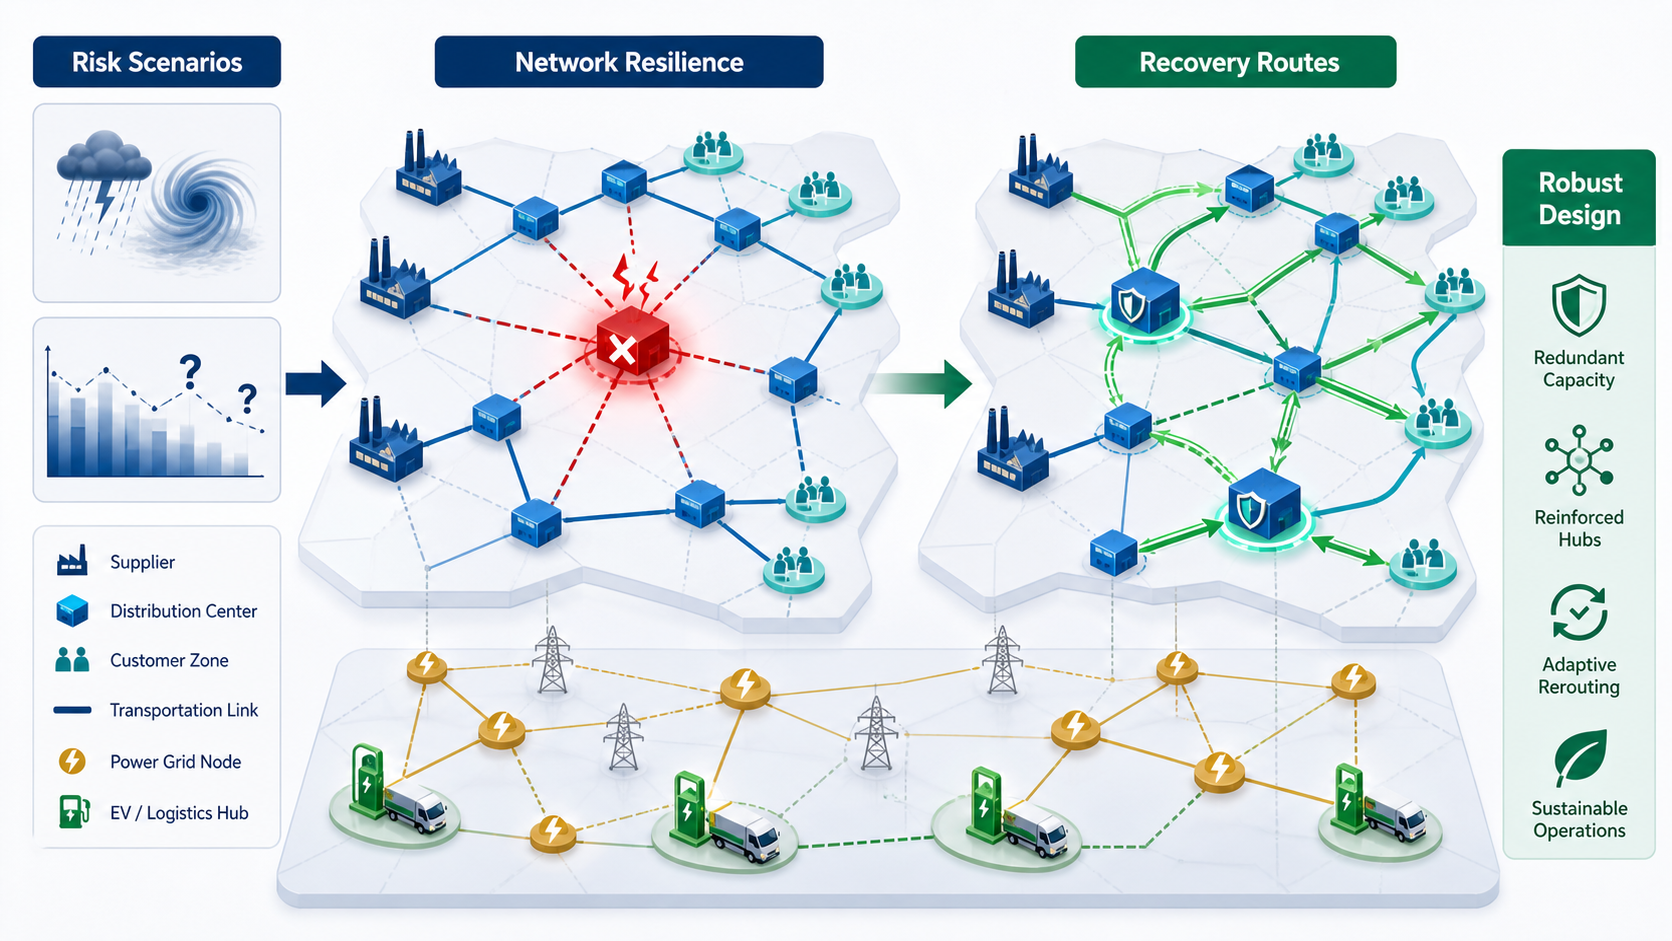
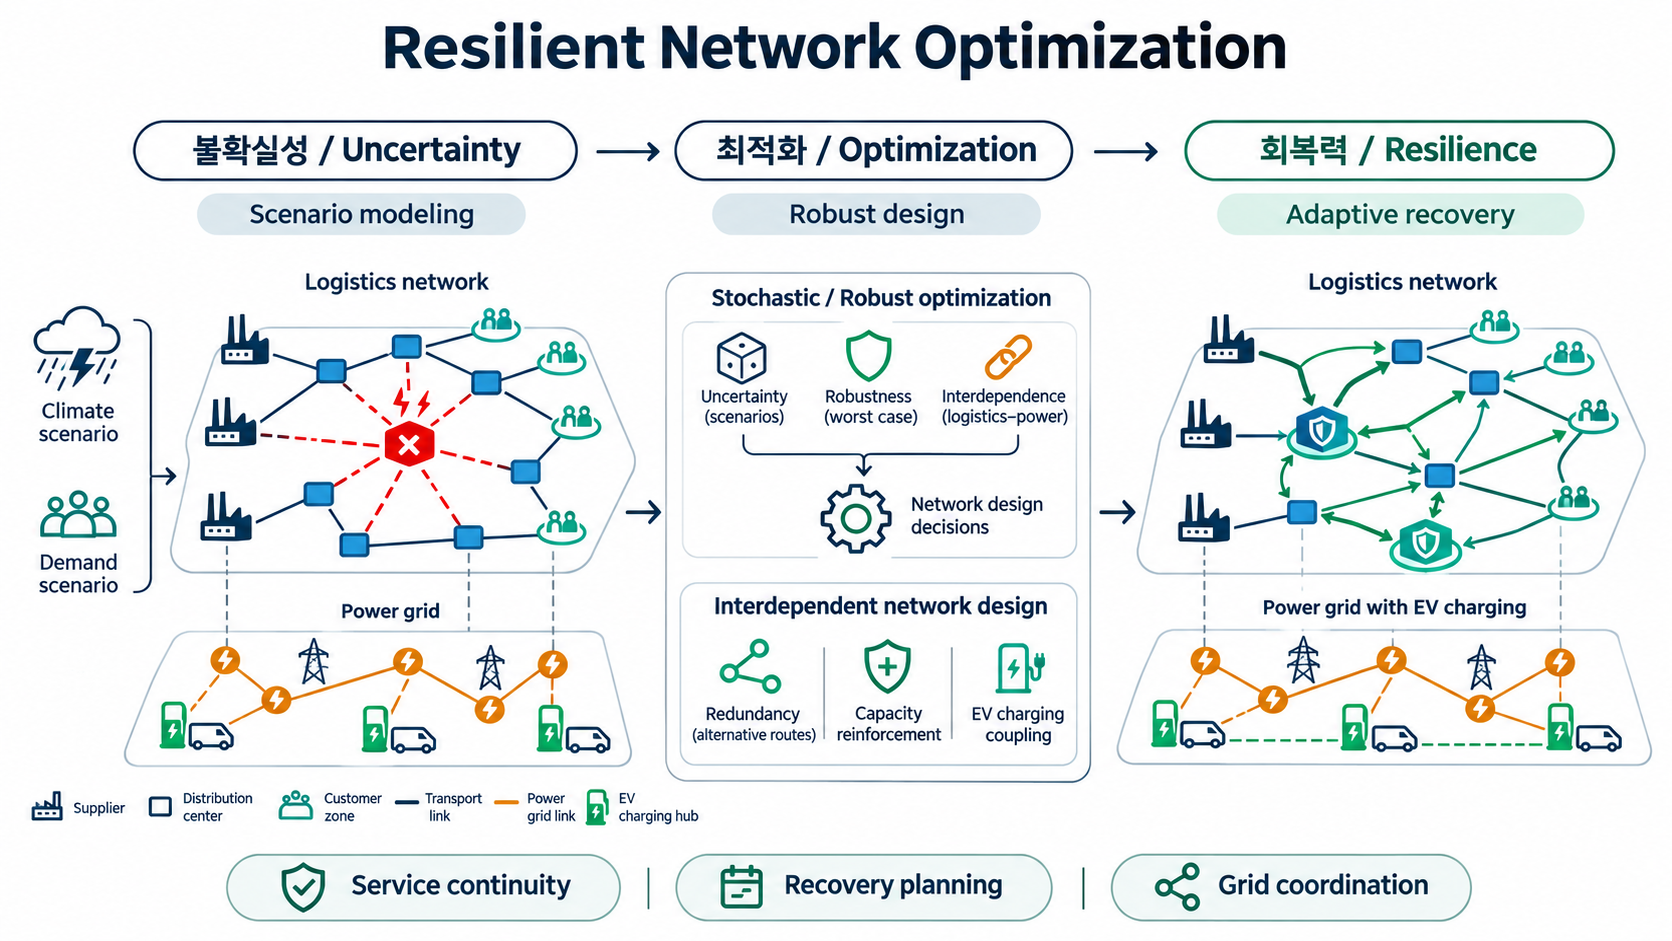
Research: new graphical abstracts for logistics, network and next-gen tabs
- Logistics main: integrated air-ground-underground logistics (bilingual)
- Network main: resilient network optimization (updated image)
- Next-Gen bottom-left: hybrid quantum-classical optimization (bilingual)

diff --git a/research.html b/research.html
@@ -190,16 +190,16 @@
           </div>
           <div>
             <div style="border-radius:16px;overflow:hidden;border:1px solid rgba(0,0,0,0.08);background:#fff;">
-              <img src="figures/about/ga-logistics.png" onclick="lbOpen(['figures/about/ga-logistics.png','figures/about/L1.png','figures/about/L2.png','figures/about/city-sim.png'],0)" style="cursor:zoom-in;width:100%;display:block;" alt="지하 운송 연계 VRP 그래픽 초록">
+              <img src="figures/about/LogisticsOptimization/graphical-abstract-air-ground-underground-connected-bilingual.png" onclick="lbOpen(['figures/about/LogisticsOptimization/graphical-abstract-air-ground-underground-connected-bilingual.png','figures/about/L1.png','figures/about/L2.png','figures/about/city-sim.png'],0)" style="cursor:zoom-in;width:100%;display:block;" alt="공중-지상-지하 통합 물류 그래픽 초록">
               <div style="padding:14px 18px;border-top:1px solid rgba(0,0,0,0.08);">
-                <strong style="display:block;font-size:0.88rem;line-height:1.45;">지하 운송 연계 VRP를 위한 그래픽 초록</strong>
-                <span style="font-size:0.76rem;color:#8a8a98;">IEEE Transactions on Intelligent Transportation Systems, 2025</span>
+                <strong style="display:block;font-size:0.88rem;line-height:1.45;"><span class="t-ko">공중-지상-지하 통합 물류</span><span class="t-en">Integrated Air–Ground–Underground Logistics</span></strong>
+                <span style="font-size:0.76rem;color:#8a8a98;"><span class="t-ko">드론·배송밴·화물캡슐 통합 경로 계획과 환적 동기화</span><span class="t-en">Joint routing of drones, vans and cargo capsules with synchronized transfers</span></span>
               </div>
             </div>
             <div style="display:grid;grid-template-columns:1fr 1fr 1fr;gap:10px;margin-top:12px;">
-              <img src="figures/about/L1.png" onclick="lbOpen(['figures/about/ga-logistics.png','figures/about/L1.png','figures/about/L2.png','figures/about/city-sim.png'],1)" style="cursor:zoom-in;width:100%;aspect-ratio:4/3;object-fit:cover;border-radius:10px;border:1px solid rgba(0,0,0,0.08);" alt="비행고도">
-              <img src="figures/about/L2.png" onclick="lbOpen(['figures/about/ga-logistics.png','figures/about/L1.png','figures/about/L2.png','figures/about/city-sim.png'],2)" style="cursor:zoom-in;width:100%;aspect-ratio:4/3;object-fit:cover;border-radius:10px;border:1px solid rgba(0,0,0,0.08);" alt="장애물 지도">
-              <img src="figures/about/city-sim.png" onclick="lbOpen(['figures/about/ga-logistics.png','figures/about/L1.png','figures/about/L2.png','figures/about/city-sim.png'],3)" style="cursor:zoom-in;width:100%;aspect-ratio:4/3;object-fit:cover;border-radius:10px;border:1px solid rgba(0,0,0,0.08);" alt="도시 시뮬레이션">
+              <img src="figures/about/L1.png" onclick="lbOpen(['figures/about/LogisticsOptimization/graphical-abstract-air-ground-underground-connected-bilingual.png','figures/about/L1.png','figures/about/L2.png','figures/about/city-sim.png'],1)" style="cursor:zoom-in;width:100%;aspect-ratio:4/3;object-fit:cover;border-radius:10px;border:1px solid rgba(0,0,0,0.08);" alt="비행고도">
+              <img src="figures/about/L2.png" onclick="lbOpen(['figures/about/LogisticsOptimization/graphical-abstract-air-ground-underground-connected-bilingual.png','figures/about/L1.png','figures/about/L2.png','figures/about/city-sim.png'],2)" style="cursor:zoom-in;width:100%;aspect-ratio:4/3;object-fit:cover;border-radius:10px;border:1px solid rgba(0,0,0,0.08);" alt="장애물 지도">
+              <img src="figures/about/city-sim.png" onclick="lbOpen(['figures/about/LogisticsOptimization/graphical-abstract-air-ground-underground-connected-bilingual.png','figures/about/L1.png','figures/about/L2.png','figures/about/city-sim.png'],3)" style="cursor:zoom-in;width:100%;aspect-ratio:4/3;object-fit:cover;border-radius:10px;border:1px solid rgba(0,0,0,0.08);" alt="도시 시뮬레이션">
             </div>
             <p style="margin-top:14px;font-size:0.8rem;color:#8a8a98;"><span style="font-family:'Space Grotesk',monospace;font-size:0.68rem;font-weight:700;letter-spacing:0.08em;text-transform:uppercase;color:#4a4a5a;margin-right:8px;">Applications</span>Amazon · UPS · DHL · 스마트시티 플랫폼</p>
           </div>
@@ -267,15 +267,15 @@
           </div>
           <div>
             <div style="border-radius:16px;overflow:hidden;border:1px solid rgba(0,0,0,0.08);background:#fff;">
-              <img src="figures/about/ga-network.png" onclick="lbOpen(['figures/about/ga-network.png','figures/about/NO1.png','figures/about/NO2.png'],0)" style="cursor:zoom-in;width:100%;display:block;" alt="회복탄력적 네트워크 최적화 그래픽 초록">
+              <img src="figures/about/NetworkOptimization/ga-network-resilience-generated.png" onclick="lbOpen(['figures/about/NetworkOptimization/ga-network-resilience-generated.png','figures/about/NO1.png','figures/about/NO2.png'],0)" style="cursor:zoom-in;width:100%;display:block;" alt="회복탄력적 네트워크 최적화 그래픽 초록">
               <div style="padding:14px 18px;border-top:1px solid rgba(0,0,0,0.08);">
-                <strong style="display:block;font-size:0.88rem;line-height:1.45;">회복탄력적 네트워크 최적화를 위한 그래픽 초록</strong>
-                <span style="font-size:0.76rem;color:#8a8a98;">Network resilience and smart-grid logistics research visual</span>
+                <strong style="display:block;font-size:0.88rem;line-height:1.45;"><span class="t-ko">회복탄력적 네트워크 최적화</span><span class="t-en">Resilient Network Optimization</span></strong>
+                <span style="font-size:0.76rem;color:#8a8a98;"><span class="t-ko">불확실성 시나리오 · 강건 설계 · 물류-전력망 연계 회복</span><span class="t-en">Uncertainty scenarios, robust design, and logistics–power grid recovery</span></span>
               </div>
             </div>
             <div style="display:grid;grid-template-columns:1fr 1fr;gap:10px;margin-top:12px;">
-              <img src="figures/about/NO1.png" onclick="lbOpen(['figures/about/ga-network.png','figures/about/NO1.png','figures/about/NO2.png'],1)" style="cursor:zoom-in;width:100%;aspect-ratio:4/3;object-fit:cover;border-radius:10px;border:1px solid rgba(0,0,0,0.08);" alt="공급망">
-              <img src="figures/about/NO2.png" onclick="lbOpen(['figures/about/ga-network.png','figures/about/NO1.png','figures/about/NO2.png'],2)" style="cursor:zoom-in;width:100%;aspect-ratio:4/3;object-fit:cover;border-radius:10px;border:1px solid rgba(0,0,0,0.08);" alt="전력망 계획">
+              <img src="figures/about/NO1.png" onclick="lbOpen(['figures/about/NetworkOptimization/ga-network-resilience-generated.png','figures/about/NO1.png','figures/about/NO2.png'],1)" style="cursor:zoom-in;width:100%;aspect-ratio:4/3;object-fit:cover;border-radius:10px;border:1px solid rgba(0,0,0,0.08);" alt="공급망">
+              <img src="figures/about/NO2.png" onclick="lbOpen(['figures/about/NetworkOptimization/ga-network-resilience-generated.png','figures/about/NO1.png','figures/about/NO2.png'],2)" style="cursor:zoom-in;width:100%;aspect-ratio:4/3;object-fit:cover;border-radius:10px;border:1px solid rgba(0,0,0,0.08);" alt="전력망 계획">
             </div>
             <p style="margin-top:14px;font-size:0.8rem;color:#8a8a98;"><span style="font-family:'Space Grotesk',monospace;font-size:0.68rem;font-weight:700;letter-spacing:0.08em;text-transform:uppercase;color:#4a4a5a;margin-right:8px;">Applications</span><span class="t-ko">식품 공급망 · 군사 물류 · 스마트그리드 · EV 인프라</span><span class="t-en">Food Supply Chain · Defense Logistics · Smart Grid · EV Infrastructure</span></p>
           </div>
@@ -406,15 +406,15 @@
           </div>
           <div>
             <div style="border-radius:16px;overflow:hidden;border:1px solid rgba(0,0,0,0.08);background:#fff;">
-              <img src="figures/about/NextgenOptimization/graphical-abstract-nextgen-bilingual.png" onclick="lbOpen(['figures/about/NextgenOptimization/graphical-abstract-nextgen-bilingual.png','figures/about/ga-nextgen.png','figures/about/NGO1.png'],0)" style="cursor:zoom-in;width:100%;display:block;" alt="적응형 조합 최적화를 위한 메타러닝 그래픽 초록">
+              <img src="figures/about/NextgenOptimization/graphical-abstract-nextgen-bilingual.png" onclick="lbOpen(['figures/about/NextgenOptimization/graphical-abstract-nextgen-bilingual.png','figures/about/NextgenOptimization/graphical-abstract-quantum-classical-bilingual.png','figures/about/NGO1.png'],0)" style="cursor:zoom-in;width:100%;display:block;" alt="적응형 조합 최적화를 위한 메타러닝 그래픽 초록">
               <div style="padding:14px 18px;border-top:1px solid rgba(0,0,0,0.08);">
                 <strong style="display:block;font-size:0.88rem;line-height:1.45;"><span class="t-ko">적응형 조합 최적화를 위한 메타러닝</span><span class="t-en">Meta-Learning for Adaptive Combinatorial Optimization</span></strong>
                 <span style="font-size:0.76rem;color:#8a8a98;"><span class="t-ko">메타러닝 정책 기반 ALNS 연산자 선택과 새 인스턴스 적응</span><span class="t-en">Meta-learned operator selection in ALNS and adaptation to new instances</span></span>
               </div>
             </div>
             <div style="display:grid;grid-template-columns:1fr 1fr;gap:10px;margin-top:12px;">
-              <img src="figures/about/ga-nextgen.png" onclick="lbOpen(['figures/about/NextgenOptimization/graphical-abstract-nextgen-bilingual.png','figures/about/ga-nextgen.png','figures/about/NGO1.png'],1)" style="cursor:zoom-in;width:100%;aspect-ratio:4/3;object-fit:cover;border-radius:10px;border:1px solid rgba(0,0,0,0.08);" alt="차세대 최적화">
-              <img src="figures/about/NGO1.png" onclick="lbOpen(['figures/about/NextgenOptimization/graphical-abstract-nextgen-bilingual.png','figures/about/ga-nextgen.png','figures/about/NGO1.png'],2)" style="cursor:zoom-in;width:100%;aspect-ratio:4/3;object-fit:cover;border-radius:10px;border:1px solid rgba(0,0,0,0.08);" alt="메타러닝">
+              <img src="figures/about/NextgenOptimization/graphical-abstract-quantum-classical-bilingual.png" onclick="lbOpen(['figures/about/NextgenOptimization/graphical-abstract-nextgen-bilingual.png','figures/about/NextgenOptimization/graphical-abstract-quantum-classical-bilingual.png','figures/about/NGO1.png'],1)" style="cursor:zoom-in;width:100%;aspect-ratio:4/3;object-fit:cover;border-radius:10px;border:1px solid rgba(0,0,0,0.08);" alt="하이브리드 양자-고전 최적화">
+              <img src="figures/about/NGO1.png" onclick="lbOpen(['figures/about/NextgenOptimization/graphical-abstract-nextgen-bilingual.png','figures/about/NextgenOptimization/graphical-abstract-quantum-classical-bilingual.png','figures/about/NGO1.png'],2)" style="cursor:zoom-in;width:100%;aspect-ratio:4/3;object-fit:cover;border-radius:10px;border:1px solid rgba(0,0,0,0.08);" alt="메타러닝">
             </div>
             <p style="margin-top:14px;font-size:0.8rem;color:#8a8a98;"><span style="font-family:'Space Grotesk',monospace;font-size:0.68rem;font-weight:700;letter-spacing:0.08em;text-transform:uppercase;color:#4a4a5a;margin-right:8px;">Applications</span><span class="t-ko">물류 라우팅 · 생산 스케줄링 · 네트워크 설계</span><span class="t-en">Logistics Routing · Production Scheduling · Network Design</span></p>
           </div>
